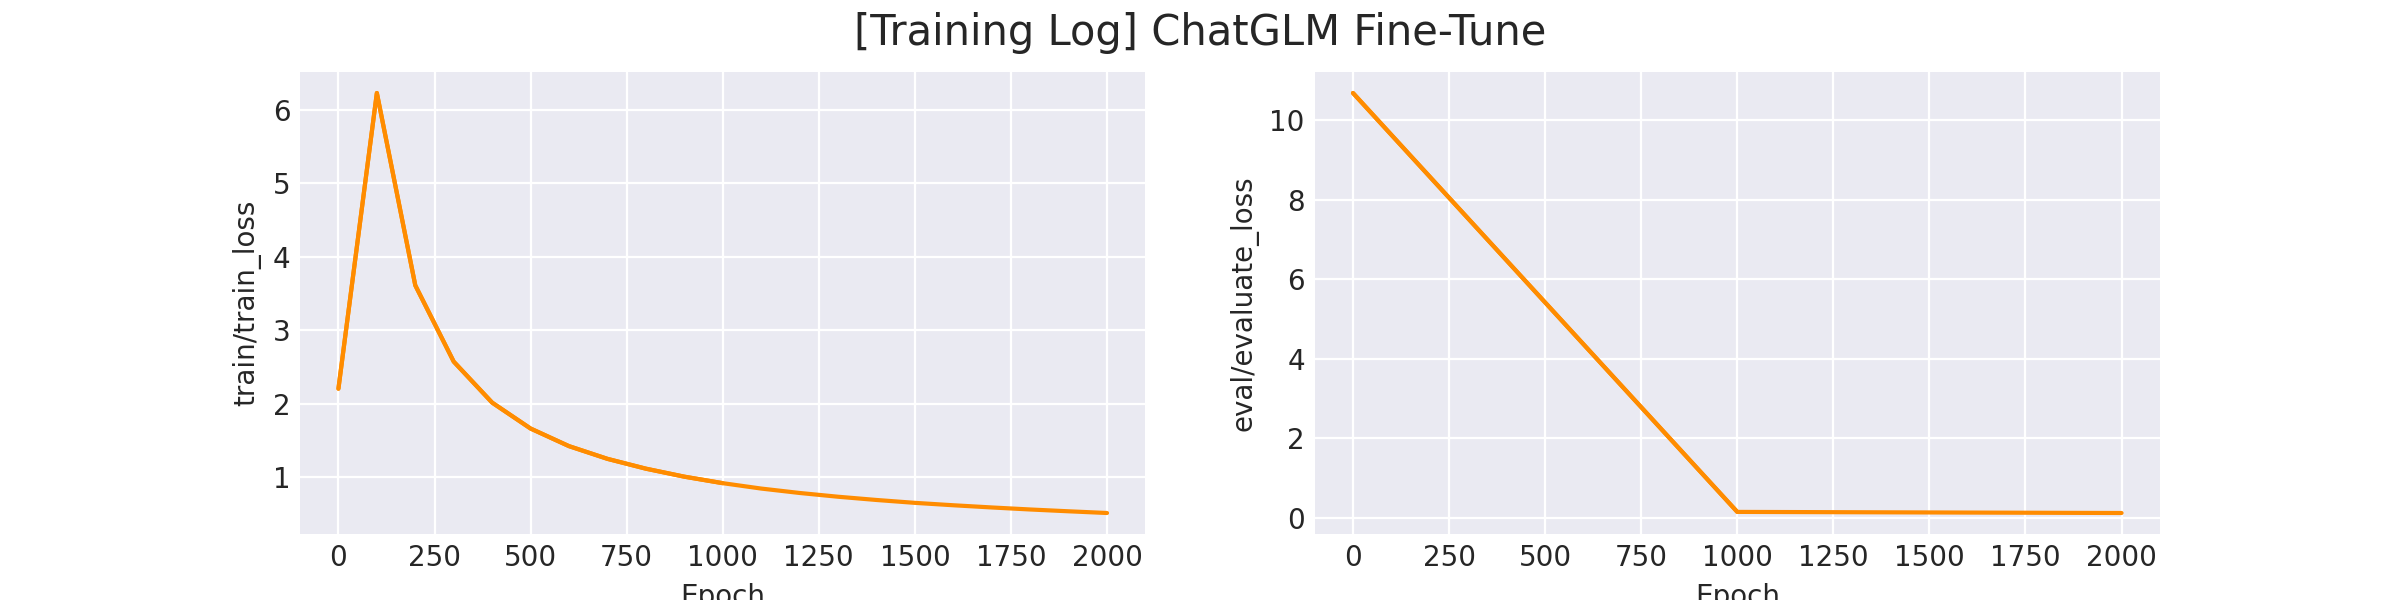
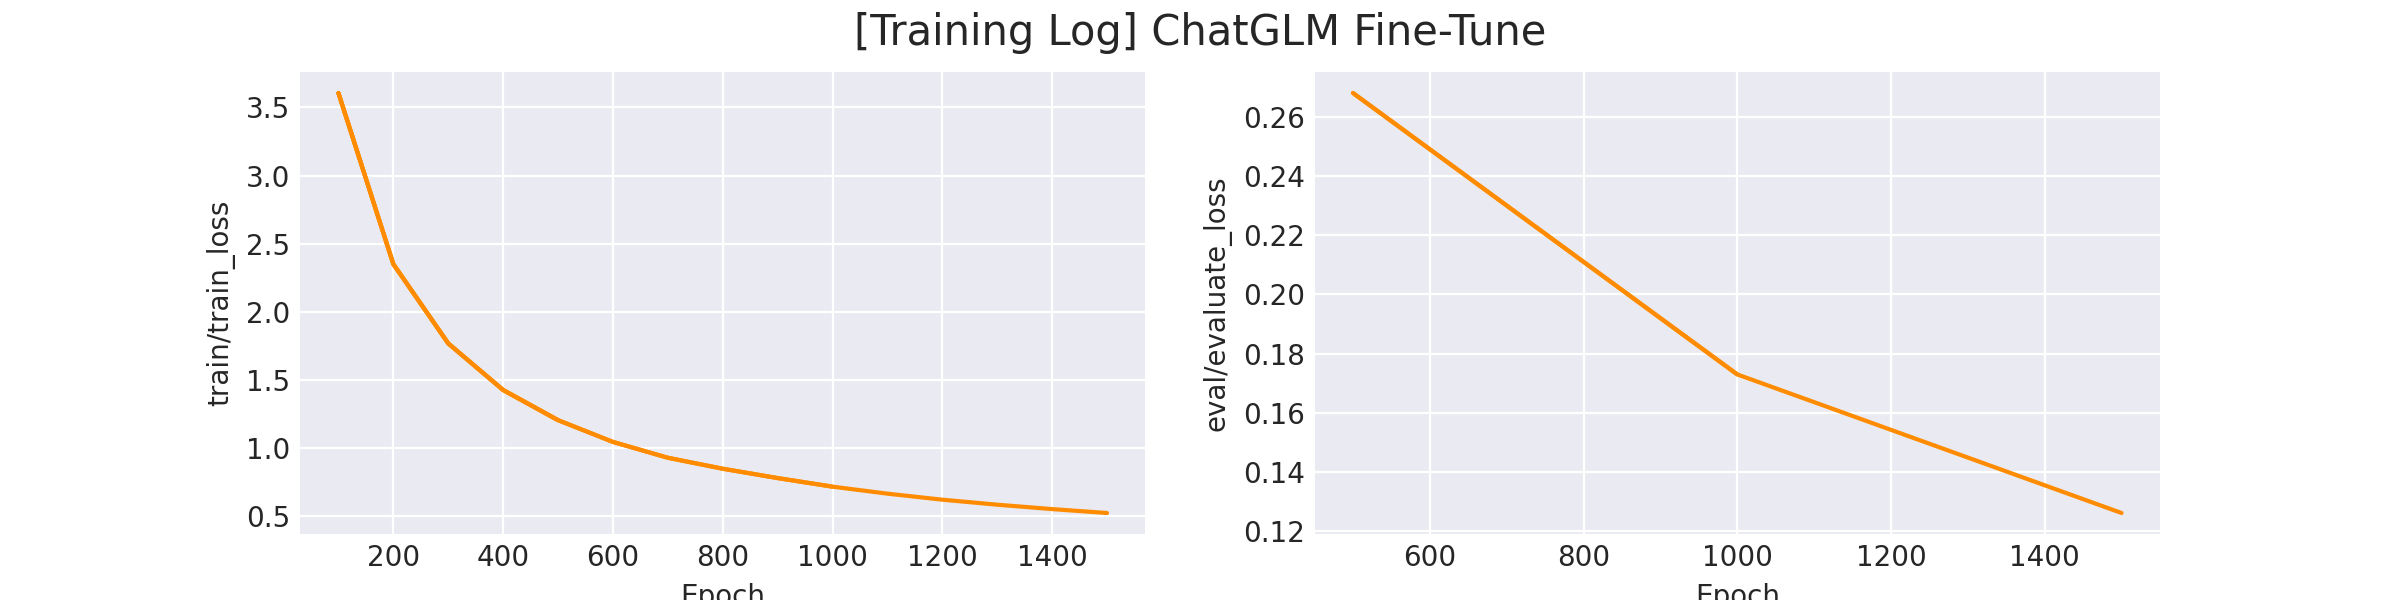
add multi-GPU train LLM

diff --git a/LLM/finetune/train_multi_gpu.py b/LLM/finetune/train_multi_gpu.py
@@ -1,0 +1,323 @@
+# !/usr/bin/env python3
+"""
+==== No Bugs in code, just some Random Unexpected FEATURES ====
+┌─────────────────────────────────────────────────────────────┐
+│┌───┬───┬───┬───┬───┬───┬───┬───┬───┬───┬───┬───┬───┬───┬───┐│
+││Esc│!1 │@2 │#3 │$4 │%5 │^6 │&7 │*8 │(9 │)0 │_- │+= │|\ │`~ ││
+│├───┴─┬─┴─┬─┴─┬─┴─┬─┴─┬─┴─┬─┴─┬─┴─┬─┴─┬─┴─┬─┴─┬─┴─┬─┴─┬─┴───┤│
+││ Tab │ Q │ W │ E │ R │ T │ Y │ U │ I │ O │ P │{[ │}] │ BS  ││
+│├─────┴┬──┴┬──┴┬──┴┬──┴┬──┴┬──┴┬──┴┬──┴┬──┴┬──┴┬──┴┬──┴─────┤│
+││ Ctrl │ A │ S │ D │ F │ G │ H │ J │ K │ L │: ;│" '│ Enter  ││
+│├──────┴─┬─┴─┬─┴─┬─┴─┬─┴─┬─┴─┬─┴─┬─┴─┬─┴─┬─┴─┬─┴─┬─┴────┬───┤│
+││ Shift  │ Z │ X │ C │ V │ B │ N │ M │< ,│> .│? /│Shift │Fn ││
+│└─────┬──┴┬──┴──┬┴───┴───┴───┴───┴───┴──┬┴───┴┬──┴┬─────┴───┘│
+│      │Fn │ Alt │         Space         │ Alt │Win│   HHKB   │
+│      └───┴─────┴───────────────────────┴─────┴───┘          │
+└─────────────────────────────────────────────────────────────┘
+
+Multi-GPU ChatGLM Fine-tune。
+
+Author: pankeyu
+Date: 2023/03/29
+
+Reference:
+    https://github.com/mymusise/ChatGLM-Tuning
+"""
+import os
+import time
+import argparse
+from functools import partial
+
+import torch
+import torch.nn as nn
+from datasets import load_dataset
+from torch.utils.data import DataLoader
+from torch.cuda.amp import autocast as autocast
+
+from transformers import AutoTokenizer, AutoConfig, default_data_collator, get_scheduler
+from modeling_chatglm import ChatGLMForConditionalGeneration
+
+from rich import print
+from rich.table import Table
+from rich.align import Align
+from rich.console import Console
+
+from peft import get_peft_model, LoraConfig, TaskType
+from utils import convert_example
+from iTrainingLogger import iSummaryWriter
+
+from accelerate import Accelerator
+
+
+local_rank = int(os.environ.get("LOCAL_RANK", 0))
+print('local_rank: ', local_rank)
+
+
+parser = argparse.ArgumentParser()
+parser.add_argument("--train_path", default=None, type=str, help="The path of train set.")
+parser.add_argument("--dev_path", default=None, type=str, help="The path of dev set.")
+parser.add_argument("--save_dir", default="./checkpoints", type=str, required=False, help="The output directory where the model predictions and checkpoints will be written.")
+parser.add_argument("--max_source_seq_len", default=512, type=int,help="The maximum total encoder input sequence length after tokenization. Sequences longer "
+    "than this will be truncated, sequences shorter will be padded.", )
+parser.add_argument("--max_target_seq_len", default=512, type=int,help="The maximum total decoder input sequence length after tokenization. Sequences longer "
+    "than this will be truncated, sequences shorter will be padded.", )
+parser.add_argument("--batch_size", default=16, type=int, help="Batch size per GPU/CPU for training.", )
+parser.add_argument("--learning_rate", default=5e-5, type=float, help="The initial learning rate for Adam.")
+parser.add_argument("--weight_decay", default=0.0, type=float, help="Weight decay if we apply some.")
+parser.add_argument("--num_train_epochs", default=10, type=int, help="Total number of training epochs to perform.")
+parser.add_argument("--warmup_ratio", default=0.0, type=float, help="Linear warmup over warmup_ratio * total_steps.")
+parser.add_argument("--save_freq", default=200, type=int, required=False, help="evaluate frequecny.")
+parser.add_argument("--logging_steps", default=10, type=int, help="log interval.")
+parser.add_argument("--img_log_dir", default='logs', type=str, help="Logging image path.")
+parser.add_argument("--img_log_name", default='Model Performance', type=str, help="Logging image file name.")
+parser.add_argument("--lora_rank", default=8, type=int, help="LoRA Rank.")
+args = parser.parse_args()
+
+writer = iSummaryWriter(log_path=args.img_log_dir, log_name=args.img_log_name)
+
+
+class CastOutputToFloat(nn.Sequential):
+    def forward(self, x):
+        return super().forward(x).to(torch.float32)
+
+
+def second2time(seconds: int):
+    """
+    将秒转换成时分秒。
+
+    Args:
+        seconds (int): _description_
+    """
+    m, s = divmod(seconds, 60)
+    h, m = divmod(m, 60)
+    return "%02d:%02d:%02d" % (h, m, s)
+
+
+def evaluate_model(model, data_loader):
+    """
+    在测试集上评估当前模型的训练效果。
+
+    Args:
+        model: 当前模型
+        data_loader: 测试集的dataloader
+    """
+    model.eval()
+    loss_list = []
+    with torch.no_grad():
+        for batch in data_loader:
+            loss = model(
+                input_ids=batch['input_ids'].to(dtype=torch.long),
+                attention_mask=batch['attention_mask'].to(dtype=torch.bool),
+                position_ids= batch['position_ids'].to(dtype=torch.long),
+                labels=batch['labels'].to(dtype=torch.long)
+            ).loss
+            loss_list.append(float(loss.cpu().detach()))
+    model.train()
+    return sum(loss_list) / len(loss_list)
+
+
+def reset_console():
+    """
+    重置终端，便于打印log信息。
+    """
+    console = Console()
+    table = Table(show_footer=False)
+    table.title = ("[bold not italic]:robot:[/] Config Parameters")
+    table.add_column("key", no_wrap=True)
+    table.add_column("value", no_wrap=True)
+    
+    for arg in vars(args):
+        table.add_row(arg, str(getattr(args, arg)))
+    
+    table.caption = "You can change config in [b not dim]Source Code[/]"
+    table.columns[0].style = "bright_red"
+    table.columns[0].header_style = "bold bright_red"
+    table.columns[1].style = "bright_green"
+    table.columns[1].header_style = "bold bright_green"
+    table_centered = Align.center(table)
+    console.print(table_centered)
+
+
+def get_optimizer_and_scheler(model, train_dataloader):
+    """
+    刷新optimizer和lr衰减器。
+    如果设置了auto_da，则每做一次自动数据增强都需要重置学习率。
+
+    Args:
+        model (_type_): _description_
+        train_dataloader (_type_): _description_
+
+    Returns:
+        _type_: _description_
+    """
+    no_decay = ["bias", "LayerNorm.weight"]
+    optimizer_grouped_parameters = [
+        {
+            "params": [p for n, p in model.named_parameters() if not any(nd in n for nd in no_decay)],
+            "weight_decay": args.weight_decay,
+        },
+        {
+            "params": [p for n, p in model.named_parameters() if any(nd in n for nd in no_decay)],
+            "weight_decay": 0.0,
+        },
+    ]
+    optimizer = torch.optim.AdamW(optimizer_grouped_parameters, lr=args.learning_rate)
+
+    # 根据训练轮数计算最大训练步数，以便于scheduler动态调整lr
+    num_update_steps_per_epoch = len(train_dataloader)
+    max_train_steps = args.num_train_epochs * num_update_steps_per_epoch
+    warm_steps = int(args.warmup_ratio * max_train_steps)
+    lr_scheduler = get_scheduler(
+        name='linear',
+        optimizer=optimizer,
+        num_warmup_steps=warm_steps,
+        num_training_steps=max_train_steps,
+    )
+    return optimizer, lr_scheduler, max_train_steps
+
+
+def main():
+    if local_rank == 0:
+        reset_console()
+
+    accelerator = Accelerator()
+    tokenizer = AutoTokenizer.from_pretrained("THUDM/chatglm-6b", trust_remote_code=True)
+    config = AutoConfig.from_pretrained(
+        "THUDM/chatglm-6b", 
+        trust_remote_code=True, 
+        device_map='auto'
+    )
+    model = ChatGLMForConditionalGeneration.from_pretrained(
+        "THUDM/chatglm-6b",
+        load_in_8bit=False, 
+        trust_remote_code=True
+    )
+    model.gradient_checkpointing_enable()
+    model.enable_input_require_grads()
+    model.is_parallelizable = True
+    model.model_parallel = True
+    model.lm_head = CastOutputToFloat(model.lm_head)
+    model.config.use_cache = False
+
+    # setup peft
+    peft_config = LoraConfig(
+        task_type=TaskType.CAUSAL_LM,
+        inference_mode=False,
+        r=args.lora_rank,
+        lora_alpha=32,
+        lora_dropout=0.1,
+    )
+    model = get_peft_model(model, peft_config)
+
+    # load dataset
+    dataset = load_dataset('text', data_files={
+        'train': args.train_path,
+        'dev': args.dev_path
+    })
+    if local_rank == 0:
+        print(dataset)
+
+    convert_func = partial(
+        convert_example, 
+        tokenizer=tokenizer, 
+        config=config,
+        max_source_seq_len=args.max_source_seq_len,
+        max_target_seq_len=args.max_target_seq_len,
+    )
+    dataset = dataset.map(convert_func, batched=True)
+
+    train_dataset = dataset["train"]
+    train_dataloader = DataLoader(
+        train_dataset, 
+        batch_size=args.batch_size, 
+        collate_fn=default_data_collator
+    )
+
+    eval_dataset = dataset["dev"]
+    eval_dataloader = DataLoader(
+        eval_dataset, 
+        collate_fn=default_data_collator, 
+        batch_size=args.batch_size
+    )
+
+    optimizer, lr_scheduler, max_train_steps = get_optimizer_and_scheler(model, train_dataloader)
+    model, optimizer, train_dataloader, lr_scheduler = accelerator.prepare(
+        model, 
+        optimizer, 
+        train_dataloader, 
+        lr_scheduler
+    )
+
+    loss_list = []
+    tic_train = time.time()
+    total_start = time.time()
+    global_step, best_eval_loss = 0, float('inf')
+    for epoch in range(1, args.num_train_epochs + 1):
+        for batch in train_dataloader:
+            optimizer.zero_grad()
+            loss = model(
+                input_ids=batch['input_ids'].to(dtype=torch.long),
+                attention_mask=batch['attention_mask'].to(dtype=torch.bool),
+                position_ids= batch['position_ids'].to(dtype=torch.long),
+                labels=batch['labels'].to(dtype=torch.long)
+            ).loss
+            accelerator.backward(loss)
+            optimizer.step()
+            lr_scheduler.step()
+            loss_list.append(float(loss.cpu().detach()))
+            
+            global_step += 1
+            if global_step % args.logging_steps == 0:
+                time_diff = time.time() - tic_train
+                loss_avg = sum(loss_list) / len(loss_list)
+                
+                if local_rank == 0:
+                    writer.add_scalar('train/train_loss', loss_avg, global_step)
+                    print("global step %d ( %02.2f%% ) , epoch: %d, loss: %.5f, speed: %.2f step/s, ETA: %s"
+                            % (
+                        global_step, 
+                        global_step / max_train_steps * 100, 
+                        epoch, 
+                        loss_avg, 
+                        args.logging_steps / time_diff,
+                        second2time(int(max_train_steps - global_step) / (args.logging_steps / time_diff))
+                    ))
+                    tic_train = time.time()
+
+            if global_step % args.save_freq == 0:
+                cur_save_dir = os.path.join(args.save_dir, "model_%d" % global_step)
+                
+                if not os.path.exists(cur_save_dir):
+                    os.makedirs(cur_save_dir)
+                
+                if local_rank == 0:
+                    model.module.save_pretrained(cur_save_dir)
+                    print(f'Model has saved at {cur_save_dir}.')
+
+                eval_loss = evaluate_model(model, eval_dataloader)
+                writer.add_scalar('eval/evaluate_loss', eval_loss, global_step)
+                writer.record()
+                
+                if local_rank == 0:
+                    print("Evaluation Loss: %.5f" % (eval_loss))
+                
+                if eval_loss < best_eval_loss and local_rank == 0:
+                    print(
+                        f"Min eval loss has been updated: {best_eval_loss:.5f} --> {eval_loss:.5f}"
+                    )
+                    best_eval_loss = eval_loss
+                    cur_save_dir = os.path.join(args.save_dir, "model_best")
+                    if not os.path.exists(cur_save_dir):
+                        os.makedirs(cur_save_dir)
+                    model.module.save_pretrained(cur_save_dir)
+                    print(f'Best model has saved at {cur_save_dir}.')
+
+                tic_train = time.time()
+
+    if local_rank == 0:
+        used_time = second2time(int(time.time() - total_start))
+        print(f'[done]Used {used_time}.')
+
+
+if __name__ == "__main__":
+    main()
